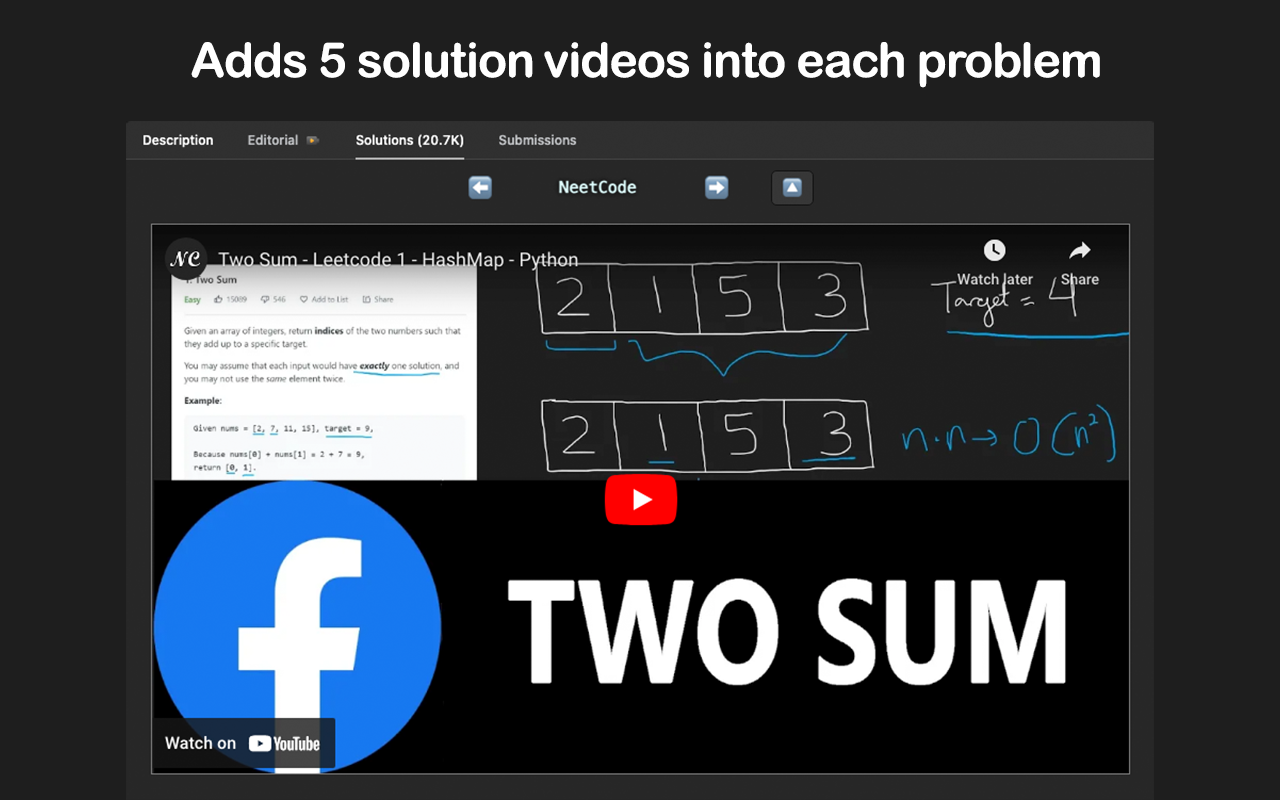
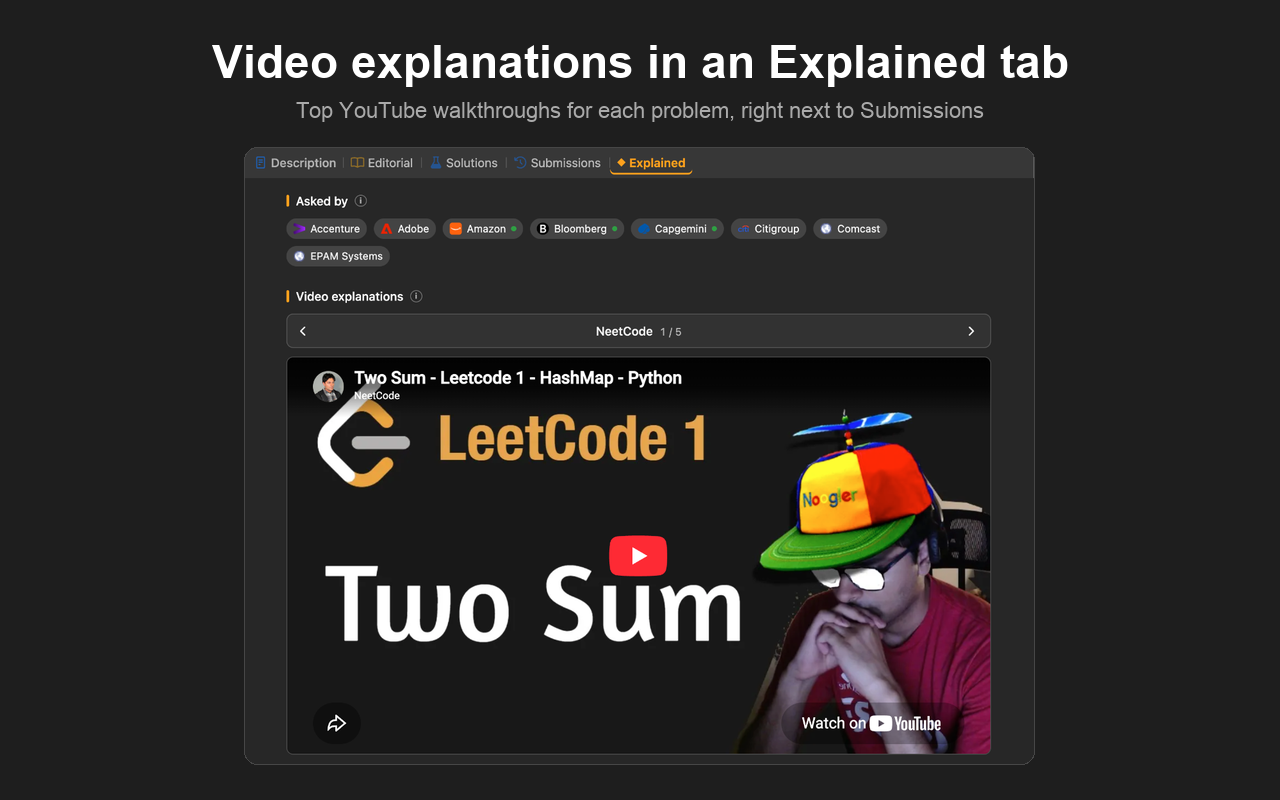
update README screenshots for the v3 UI
The screenshots showed the old Solutions-tab layout. Retaken from the v3
build: the Explained tab with videos, syntax-highlighted solution code,
company chips with recency dots and the Elo rating on the description tab,
and the problems-by-company page. Same 1280x800 captioned format as before;
the AI popup screenshots (get-complexity, fix-code) are unchanged.

diff --git a/README.md b/README.md
@@ -114,6 +114,9 @@ Licensed under the MIT License.
 
 ## 📸 Screenshots
 
-<img src="src/assets/images/screenshots/add-video.png" alt="Video Explanations" width="600"/>
+<img src="src/assets/images/screenshots/add-video.png" alt="Video explanations in the Explained tab" width="600"/>
+<img src="src/assets/images/screenshots/solution-code.png" alt="Solution code in Python, Java, C++ and JavaScript" width="600"/>
+<img src="src/assets/images/screenshots/get-company-tags.png" alt="Company tags with recency dots and difficulty rating" width="600"/>
+<img src="src/assets/images/screenshots/problems-by-company.png" alt="Most-asked problems by company" width="600"/>
 <img src="src/assets/images/screenshots/get-complexity.png" alt="Code Complexity" width="600"/>
 <img src="src/assets/images/screenshots/fix-code.png" alt="Fix Code" width="600"/>
